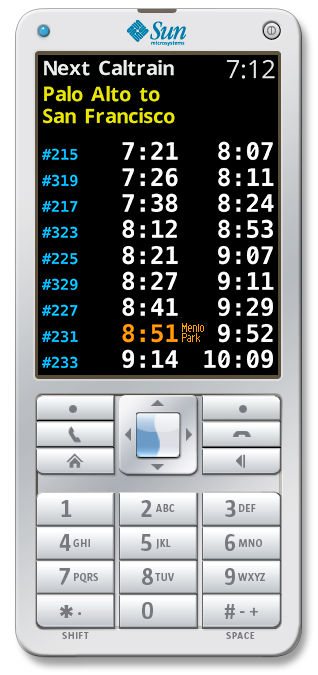
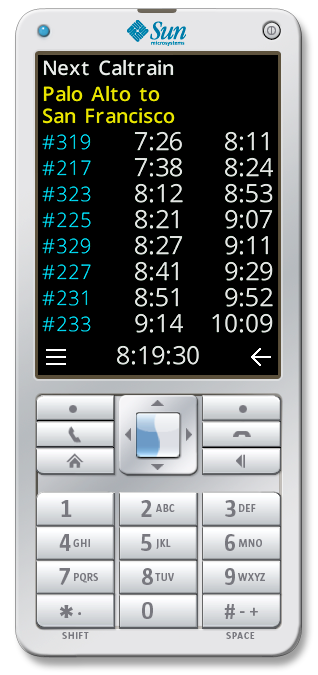
Render sample data for two stations.

Changed region(s): [[0.283, 0.0933, 0.8774, 0.56], [0.1132, 0.0933, 0.283, 0.56], [0.7075, 0.0933, 0.8774, 0.1244]]

diff --git a/src/NextCaltrain.java b/src/NextCaltrain.java
@@ -21,11 +21,12 @@ public class NextCaltrain extends MIDlet
   private static Image number30 = null;
   private static Image numberFont = null;
   private static Image openSansBold = null;
+  private static Image openSansDemi = null;
   private static Image openSansLight = null;
   private static Image letterFont = null;
-  private static Image northImage = null;
-  private static Image southImage = null;
-  private static Image backgroundImage = null;
+  private static Image hamburgerImage = null;
+  private static Image backarrowImage = null;
+  private String data[];
 
   private final int openSansMetrics[] = {
        8,  6,  9, 14, 13, 18, 16,  5,  7,  7, 11, 12,  6,  6,  6,  9,
@@ -34,6 +35,14 @@ public class NextCaltrain extends MIDlet
       13, 16, 14, 11, 12, 14, 13, 19, 13, 12, 12,  7,  9,  7, 11, 10,
        9, 11, 13, 10, 12, 12,  9, 12, 12,  5,  5, 12,  5, 19, 12, 12,
       13, 12, 10, 10,  9, 13, 12, 17, 12, 12, 10,  9,  8,  9, 12,  8 };
+
+  private final String northbound[] = {
+      "319 7:26 8:11", "217 7:38 8:24", "323 8:12 8:53", "225 8:21 9:07",
+      "329 8:27 9:11", "227 8:41 9:29", "231 8:51 9:52", "233 9:14 10:09"};
+
+  private final String southbound[] = {
+      "268 4:58 5:43", "370 5:16 5:56", "272 5:27 6:08", "376 5:38 6:15",
+      "278 5:58 6:43", "380 6:16 6:55", "282 6:23 7:04", "386 6:38 7:71"};
 
   public NextCaltrain() {
     display = Display.getDisplay(this);
@@ -79,9 +88,10 @@ public class NextCaltrain extends MIDlet
         number21 = Image.createImage ("/numbers14x21.png");
         number30 = Image.createImage ("/numbers22x30.png");
         openSansBold = Image.createImage ("/sans-bold-20.png");
+        openSansDemi = Image.createImage ("/sans-demi-20.png");
         openSansLight = Image.createImage ("/sans-light-20.png");
-        northImage = Image.createImage ("/north.png");
-        southImage = Image.createImage ("/south.png");
+        hamburgerImage = Image.createImage ("/hamburger.png");
+        backarrowImage = Image.createImage ("/backarrow.png");
       } catch (Exception ex) {
       }
     }
@@ -99,7 +109,7 @@ public class NextCaltrain extends MIDlet
       updateTask = new TimerTask() {
         public void run() {
           // paint the clock
-          repaint(width - 100, 0, 100, 50);
+          repaint(width / 2 - 50, height - 50, 100, 50);
         }
       };
       long interval = FRAME_DELAY;
@@ -155,33 +165,57 @@ public class NextCaltrain extends MIDlet
       Calendar calendar = Calendar.getInstance();
       hour = calendar.get(Calendar.HOUR);
       minute = calendar.get(Calendar.MINUTE);
-      //second = calendar.get(Calendar.SECOND);
+      second = calendar.get(Calendar.SECOND);
       if (hour < 1) hour += 12;
       if (state == -1) state = calendar.get(Calendar.AM_PM);
-      String strTime = "" + hour + (minute < 10 ? ":0" : ":") + minute;
+      String strTime = "" + hour + 
+          (minute < 10 ? ":0" : ":") + minute +
+          (second < 10 ? ":0" : ":") + second;
 
       // Load some page defaults
       if (state == 0) {
-        backgroundImage = northImage;
         from = "Palo Alto to";
         dest = "San Francisco";
+        data = northbound;
       } else {
-        backgroundImage = southImage;
         from = "San Francisco";
         dest = "to Palo Alto";
+        data = southbound;
       }
-      g.drawImage(backgroundImage, width / 2, height / 2, Graphics.HCENTER | Graphics.VCENTER);
-
+      g.fillRect(0, 0, width, height);
       g.setColor(0xFFFFFF);
-      letterFont = openSansBold;
-      letters(g, "Next Caltrain", 4, 4);
-      //letters(g, strTime, width - (strTime.length() * 12) + 2, 4);
-      numberFont = number21;
-      int offset = (hour > 9) ? 66 : 52;
-      numbers(g, strTime, width - offset, 4);
+      letterFont = openSansDemi;
+      letters(g, "Next Caltrain", padding, padding);
       g.setColor(0xFFF200);
-      letters(g, from, 4, 30);
-      letters(g, dest, 4, 52);
+      letters(g, from, padding, 30);
+      letters(g, dest, padding, 52);
+
+      int position = 78;
+      for (int i = 0; i < data.length; i++) {
+        int x0 = data[i].indexOf(" ");
+        int x1 = data[i].lastIndexOf(32);
+        int x2 = data[i].length();
+        String trip = data[i].substring(0, x0);
+        String depart = data[i].substring(1 + x0, x1);
+        String arrive = data[i].substring(1 + x1, x2);
+        g.setColor(0x00DDFF);
+        letterFont = openSansLight;
+        letters(g, "#" + trip, padding, position);
+        g.setColor((trip == "231") ? 0xFFAA00 : 0xFFFFFF);
+        numberFont = number21;
+        int offset1 = (depart.length() > 4) ? 31 : 24;
+        numbers(g, depart, (width / 2) - offset1, position - 2);
+        g.setColor(0xFFFFFF);
+        int offset2 = (arrive.length() > 4) ? 64 : 50;
+        numbers(g, arrive, width - (offset2) - padding, position - 2);
+        position += 26;
+      }
+      g.setColor(0xFFFFFF);
+      numberFont = number21;
+      int timeWidth = (strTime.length() - 1) * 14;
+      numbers(g, strTime, (width / 2) - (timeWidth / 2), height - 30);
+      g.drawImage(hamburgerImage, 0, height, Graphics.LEFT | Graphics.BOTTOM);
+      g.drawImage(backarrowImage, width, height, Graphics.RIGHT | Graphics.BOTTOM);
       painting = false;
     }
 
